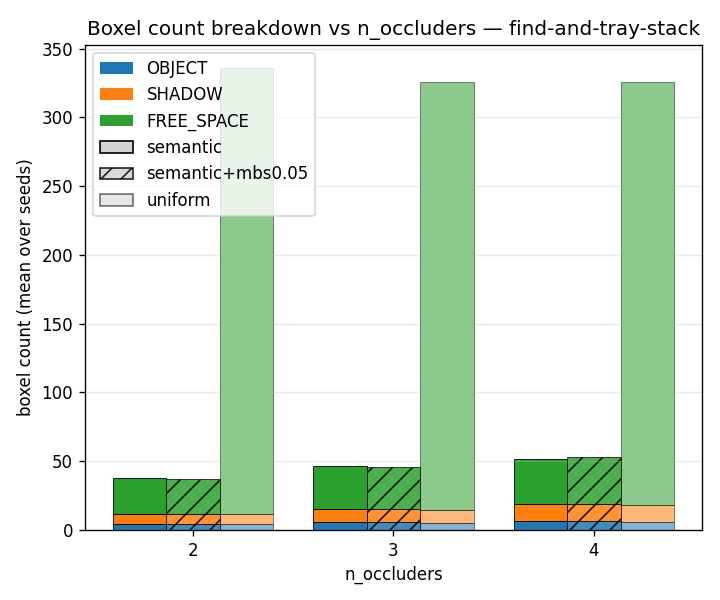
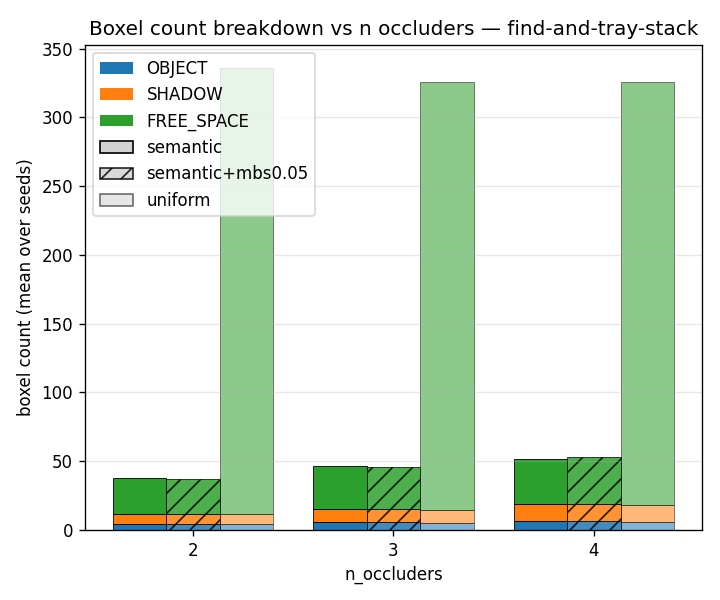
Fix #95: stack-scene difficulty axis (_row_difficulty helper)
Add _row_difficulty(r) — returns stack_height for stack rows
(goal or scene == 'stack'), n_occluders otherwise.  Stack cells
that succeed log run_config.n_occluders = 0 (stack_scene has no
occluders by construction); failure stubs keep the matrix-axis
value, which the helper also handles via fallback.

Route through write_summary_table (per-difficulty table replaces
per-occluder), group_metric, group_success_rate, group_boxel_counts;
plot_boxel_count_breakdown grows an xlabel param; main() picks
'stack_height' vs 'n_occluders' per goal and labels the figures.

Visible impact on eval_results/sweep_anytime/:
- success_rate_vs_n_occluders__stack.png: 3 X positions
  (height=2/3/4) instead of one collapsed dot.  Audit #93 finding
  'stack difficulty grows sharply with stack_height' surfaces
  directly — 97 / 74 / 13 % for semantic, 97 / 20 / 1 % for uniform.
- boxel_count_breakdown__stack.png and planning_time_vs_*_stack:
  same three positions.
- summary_table_per_occluders.csv now logs 'difficulty' column;
  stack/semantic rows split into 100+100+100 (h=2/3/4) instead of
  295 / 1 / 4 (mostly 0 from run_config, stragglers from stubs).

Changed region(s): [[0.1222, 0.03, 0.6722, 0.06], [0.7028, 0.03, 0.9778, 0.06]]

diff --git a/eval_plotter.py b/eval_plotter.py
@@ -93,6 +93,38 @@ _VARIANT_COLOUR = {
 }
 
 
+# Audit #95 — meaningful difficulty axis for a row.  The eval matrix
+# reuses ``n_occluders`` as the axis name even for the stack sub-tier,
+# where the value is actually passed through to ``--stack-height``
+# (eval_runner.cell_to_argv).  Successful stack cells overwrite
+# n_occluders with run_config (always 0 for stack scenes); failure
+# stubs keep the cell-level matrix value.  Either way the meaningful
+# axis is ``stack_height``; ``n_occluders`` is correct only for the
+# random-pairs and scalability paths.  Use this helper everywhere
+# downstream parsers want a "scene difficulty" number.
+def _row_difficulty(r: dict) -> Optional[int]:
+    is_stack = (r.get("goal") == "stack"
+                or r.get("scene") == "stack")
+    if is_stack:
+        sh = r.get("stack_height")
+        if sh not in (None, ""):
+            try:
+                return int(sh)
+            except (TypeError, ValueError):
+                pass
+        # Failure stubs (timeout / no_summary) lack run_config, so
+        # stack_height is absent; fall back to the matrix-axis
+        # n_occluders which the stack sub-tier uses as the height
+        # value (eval_runner.cell_to_argv lines around --stack-height).
+    n = r.get("n_occluders")
+    if n in (None, ""):
+        return None
+    try:
+        return int(n)
+    except (TypeError, ValueError):
+        return None
+
+
 def load_rows(csv_path: Path) -> List[dict]:
     rows: List[dict] = []
     with csv_path.open(encoding="utf-8") as f:
@@ -343,8 +375,19 @@ def group_metric(rows: List[dict],
     for r in rows:
         if success_only and not r.get("success"):
             continue
+        # Audit #95 — when the X axis is n_occluders, use the per-row
+        # difficulty so stack cells slot into stack_height buckets
+        # instead of collapsing onto run_config's n_occluders=0.
+        if axis_x == "n_occluders":
+            x = _row_difficulty(r)
+            if x is None:
+                continue
+        else:
+            try:
+                x = int(r[axis_x])
+            except (KeyError, TypeError, ValueError):
+                continue
         try:
-            x = int(r[axis_x])
             v = float(r[metric])
         except (KeyError, TypeError, ValueError):
             continue
@@ -360,10 +403,17 @@ def group_success_rate(rows: List[dict],
                        series: str = "n_targets") -> Dict[object, Dict[int, List[float]]]:
     out: Dict = defaultdict(lambda: defaultdict(list))
     for r in rows:
-        try:
-            x = int(r[axis_x])
-        except (KeyError, ValueError, TypeError):
-            continue
+        # Audit #95 — same swap as group_metric: stack-height for stack
+        # rows when the requested axis is n_occluders.
+        if axis_x == "n_occluders":
+            x = _row_difficulty(r)
+            if x is None:
+                continue
+        else:
+            try:
+                x = int(r[axis_x])
+            except (KeyError, ValueError, TypeError):
+                continue
         s = r.get(series)
         if s in (None, ""):
             continue
@@ -396,9 +446,10 @@ def group_boxel_counts(rows: List[dict],
     for r in rows:
         if goal is not None and r.get("goal") != goal:
             continue
-        try:
-            x = int(r["n_occluders"])
-        except (KeyError, TypeError, ValueError):
+        # Audit #95 — stack-height for stack rows; n_occluders for the
+        # random-pairs / scalability paths.
+        x = _row_difficulty(r)
+        if x is None:
             continue
         # Audit #99 — variant key splits mbs=None / mbs=0.05 / uniform.
         variant = r.get("_variant") or _row_variant(r)
@@ -429,6 +480,7 @@ def plot_boxel_count_breakdown(
     grouped: Dict[str, Dict[int, Dict[str, List[int]]]],
     title: str,
     out_path: Path,
+    xlabel: str = "n_occluders",
 ) -> Optional[Path]:
     """Stacked bars OBJECT / SHADOW / FREE_SPACE by n_occluders; one
     side-by-side group per variant (semantic / semantic+mbs* / uniform).
@@ -482,11 +534,13 @@ def plot_boxel_count_breakdown(
     ax.set_ylabel("boxel count (mean over seeds)")
     ax.set_title(title)
     if len(xs_all) > 1:
-        ax.set_xlabel("n_occluders")
+        ax.set_xlabel(xlabel)
         ax.set_xticks(xs_all)
     else:
-        # Single-X (stack subtier): n_occluders=0 tick is meaningless;
-        # the scene context is already in the title.
+        # Single-X (rare with audit-#95 stack_height grouping): the
+        # x=0 tick is meaningless when only one difficulty point is
+        # present, so drop the label entirely and let the title carry
+        # the scene context.
         ax.set_xticks([])
         ax.set_xlabel("")
     ax.grid(True, axis="y", alpha=0.3)
@@ -1417,14 +1471,14 @@ def write_summary_table(rows: List[dict], out_dir: Path) -> None:
         by_gb[(r.get("goal") or "?",
                r.get("_variant") or _row_variant(r))].append(r)
 
+    # Audit #95 — group by per-row difficulty: stack_height for stack
+    # rows (n_occluders=0 from run_config / matrix-axis value for
+    # failure stubs is meaningless), n_occluders otherwise.
     by_gbo: Dict[tuple, List[dict]] = defaultdict(list)
     for r in rows:
-        try:
-            occ = int(r.get("n_occluders"))
-        except (TypeError, ValueError):
-            occ = None
         by_gbo[(r.get("goal") or "?",
-                r.get("_variant") or _row_variant(r), occ)].append(r)
+                r.get("_variant") or _row_variant(r),
+                _row_difficulty(r))].append(r)
 
     md = [
         f"# Summary table — {out_dir.name}",
@@ -1461,18 +1515,20 @@ def write_summary_table(rows: List[dict], out_dir: Path) -> None:
 
     md += [
         "",
-        "## Per-occluder breakdown",
+        "## Per-difficulty breakdown",
         "",
-        "Note: stack-scene cells log `n_occluders=0` because stack_scene "
-        "has no occluders by construction (the matrix-axis value is tag-"
-        "only and is not passed through to the pipeline).",
+        "Note: 'difficulty' is `n_occluders` for the random-pairs / "
+        "scalability paths and `stack_height` for the stack scene "
+        "(audit #95).  The stack-scene matrix axis is tag-only — "
+        "run_config records `n_occluders=0` because stack_scene has "
+        "no occluders by construction.",
         "",
-        "| goal | variant | n_occluders | n_cells | success | success_rate "
+        "| goal | variant | difficulty | n_cells | success | success_rate "
         "| mean plan_time (s) | mean plan_count "
         "| mean init_facts | mean total_boxels |",
         "|---|---|---:|---:|---:|---:|---:|---:|---:|---:|",
     ]
-    csv_detail = [["goal", "variant", "n_occluders", "n_cells", "n_success",
+    csv_detail = [["goal", "variant", "difficulty", "n_cells", "n_success",
                    "success_rate", "mean_plan_time_s", "mean_plan_count",
                    "mean_init_facts", "mean_total_boxels"]]
     for key in sorted(by_gbo.keys(),
@@ -1845,6 +1901,12 @@ def main(argv=None) -> int:
     for goal, g_rows, g_baseline in goal_buckets:
         suffix = f"__{goal}" if goal else ""
         title_suffix = f" — {goal}" if goal else ""
+        # Audit #95 — stack goal's difficulty axis is stack_height, not
+        # n_occluders (matrix-axis value is tag-only for the stack
+        # sub-tier).  Label X accordingly; the groupers above slot the
+        # rows into the right buckets via _row_difficulty().
+        x_label = "stack_height" if goal == "stack" else "n_occluders"
+        x_label_in_title = x_label.replace("_", " ")
         plot_metric(
             group_metric(g_rows, series=series_key,
                          metric="total_planning_time_s",
@@ -1857,6 +1919,7 @@ def main(argv=None) -> int:
                                            success_only=True)
                               if g_baseline else None),
             series_label=series_label,
+            xlabel=x_label,
             main_label_suffix=main_label_suffix,
             baseline_label_suffix=baseline_label_suffix,
         )
@@ -1869,6 +1932,7 @@ def main(argv=None) -> int:
             baseline_grouped=(group_success_rate(g_baseline, series=series_key)
                               if g_baseline else None),
             series_label=series_label,
+            xlabel=x_label,
             main_label_suffix=main_label_suffix,
             baseline_label_suffix=baseline_label_suffix,
         )
@@ -1883,6 +1947,7 @@ def main(argv=None) -> int:
                                            success_only=True)
                               if g_baseline else None),
             series_label=series_label,
+            xlabel=x_label,
             main_label_suffix=main_label_suffix,
             baseline_label_suffix=baseline_label_suffix,
         )
@@ -1893,8 +1958,9 @@ def main(argv=None) -> int:
         # prints '[plotter] no data ...' and skips the figure).
         plot_boxel_count_breakdown(
             group_boxel_counts(g_rows + (g_baseline or []), goal=goal),
-            title=f"Boxel count breakdown vs n_occluders{title_suffix}",
+            title=f"Boxel count breakdown vs {x_label_in_title}{title_suffix}",
             out_path=out_dir / f"boxel_count_breakdown{suffix}.png",
+            xlabel=x_label,
         )
         # Audit #73 TIER A plot 2: PDDL init-state fact count vs
         # n_occluders.  Same X-axis as plot 1 but in the planner's
@@ -1911,7 +1977,7 @@ def main(argv=None) -> int:
             group_metric(g_rows, series=series_key,
                          metric="n_init_state_facts",
                          success_only=False),
-            title=f"Init-state fact count vs n_occluders{title_suffix}",
+            title=f"Init-state fact count vs {x_label_in_title}{title_suffix}",
             ylabel="mean n_init_state_facts",
             out_path=out_dir / f"init_state_facts_vs_n_occluders{suffix}.png",
             baseline_grouped=(group_metric(g_baseline, series=series_key,
@@ -1919,6 +1985,7 @@ def main(argv=None) -> int:
                                            success_only=False)
                               if g_baseline else None),
             series_label=series_label,
+            xlabel=x_label,
             main_label_suffix=main_label_suffix,
             baseline_label_suffix=baseline_label_suffix,
         )
@@ -1941,6 +2008,7 @@ def main(argv=None) -> int:
                                            success_only=False)
                               if g_baseline else None),
             series_label=series_label,
+            xlabel=x_label,
             main_label_suffix=main_label_suffix,
             baseline_label_suffix=baseline_label_suffix,
         )

diff --git a/eval_results/sweep_anytime/summary_table.md b/eval_results/sweep_anytime/summary_table.md
@@ -14,11 +14,11 @@
 | stack | semantic+mbs0.05 | 300 | 184 | 61.3% | 1.23 | 1.19 | 312 | 27.8 |
 | stack | uniform | 301 | 118 | 39.2% | 23.84 | 1.04 | 12097 | 1339.9 |
 
-## Per-occluder breakdown
+## Per-difficulty breakdown
 
-Note: stack-scene cells log `n_occluders=0` because stack_scene has no occluders by construction (the matrix-axis value is tag-only and is not passed through to the pipeline).
+Note: 'difficulty' is `n_occluders` for the random-pairs / scalability paths and `stack_height` for the stack scene (audit #95).  The stack-scene matrix axis is tag-only — run_config records `n_occluders=0` because stack_scene has no occluders by construction.
 
-| goal | variant | n_occluders | n_cells | success | success_rate | mean plan_time (s) | mean plan_count | mean init_facts | mean total_boxels |
+| goal | variant | difficulty | n_cells | success | success_rate | mean plan_time (s) | mean plan_count | mean init_facts | mean total_boxels |
 |---|---|---:|---:|---:|---:|---:|---:|---:|---:|
 | find-and-tray-stack | semantic | 2 | 99 | 39 | 39.4% | 14.93 | 2.31 | 402 | 37.7 |
 | find-and-tray-stack | semantic | 3 | 100 | 38 | 38.0% | 51.57 | 2.76 | 570 | 46.2 |
@@ -38,10 +38,12 @@ Note: stack-scene cells log `n_occluders=0` because stack_scene has no occluders
 | holding | uniform | 2 | 100 | 33 | 33.0% | 21.24 | 1.45 | 2052 | 333.5 |
 | holding | uniform | 3 | 100 | 36 | 36.0% | 48.90 | 2.14 | 2386 | 322.7 |
 | holding | uniform | 4 | 100 | 31 | 31.0% | 83.04 | 2.65 | 2653 | 321.2 |
-| stack | semantic | 0 | 295 | 184 | 62.4% | 1.23 | 1.19 | 312 | 27.8 |
-| stack | semantic | 3 | 1 | 0 | 0.0% | — | — | — | — |
-| stack | semantic | 4 | 4 | 0 | 0.0% | — | — | — | — |
-| stack | semantic+mbs0.05 | 0 | 294 | 184 | 62.6% | 1.23 | 1.19 | 312 | 27.8 |
-| stack | semantic+mbs0.05 | 3 | 1 | 0 | 0.0% | — | — | — | — |
-| stack | semantic+mbs0.05 | 4 | 5 | 0 | 0.0% | — | — | — | — |
-| stack | uniform | 0 | 301 | 118 | 39.2% | 23.84 | 1.04 | 12097 | 1339.9 |
+| stack | semantic | 2 | 100 | 97 | 97.0% | 1.15 | 1.02 | 273 | 26.3 |
+| stack | semantic | 3 | 100 | 74 | 74.0% | 1.25 | 1.32 | 272 | 26.3 |
+| stack | semantic | 4 | 100 | 13 | 13.0% | 1.77 | 1.69 | 394 | 30.9 |
+| stack | semantic+mbs0.05 | 2 | 100 | 97 | 97.0% | 1.13 | 1.02 | 273 | 26.3 |
+| stack | semantic+mbs0.05 | 3 | 100 | 74 | 74.0% | 1.29 | 1.32 | 272 | 26.3 |
+| stack | semantic+mbs0.05 | 4 | 100 | 13 | 13.0% | 1.63 | 1.69 | 394 | 30.9 |
+| stack | uniform | 2 | 100 | 97 | 97.0% | 20.08 | 1.02 | 11210 | 1340.8 |
+| stack | uniform | 3 | 99 | 20 | 20.2% | 32.20 | 1.05 | 11116 | 1340.8 |
+| stack | uniform | 4 | 102 | 1 | 1.0% | 220.54 | 3.00 | 13919 | 1338.1 |
